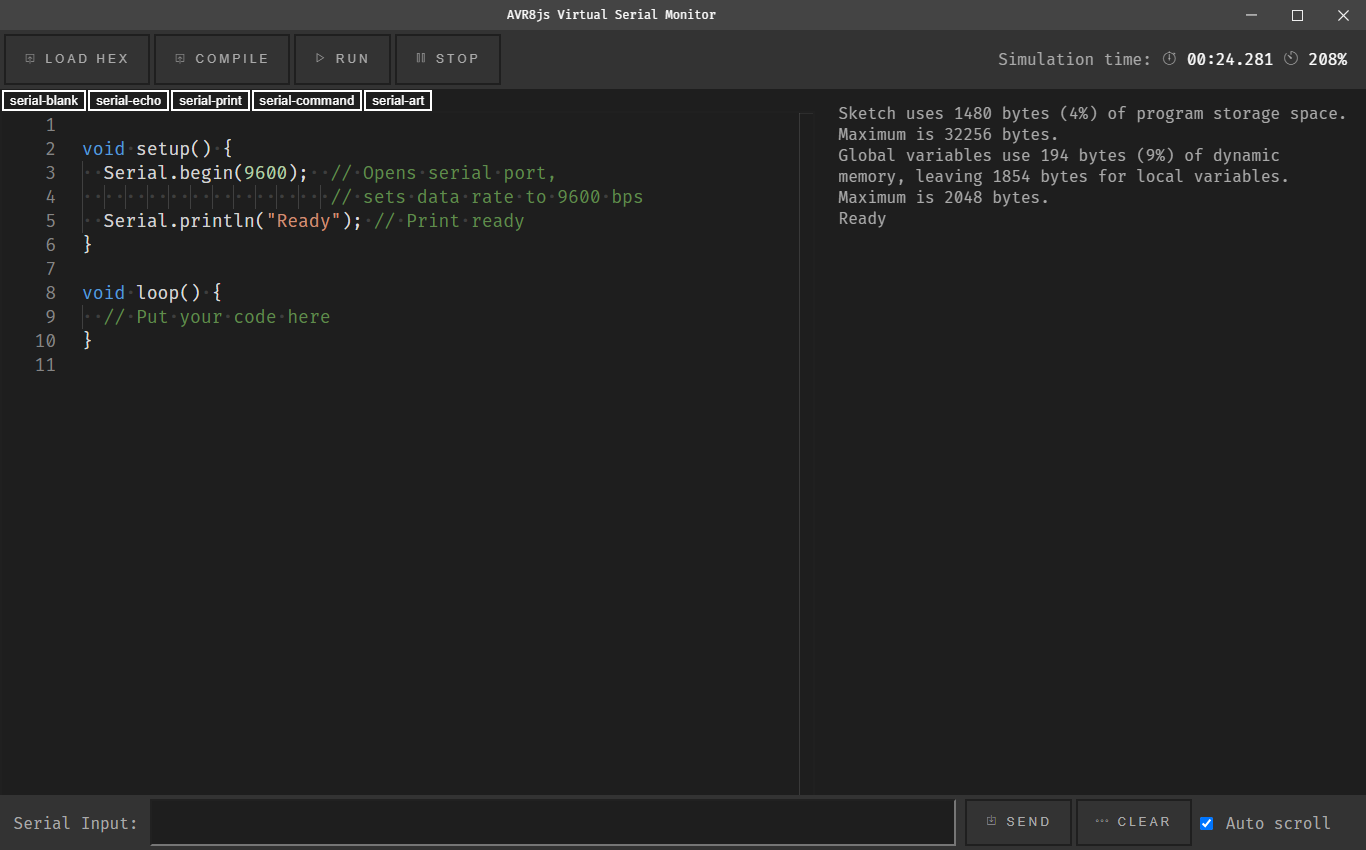
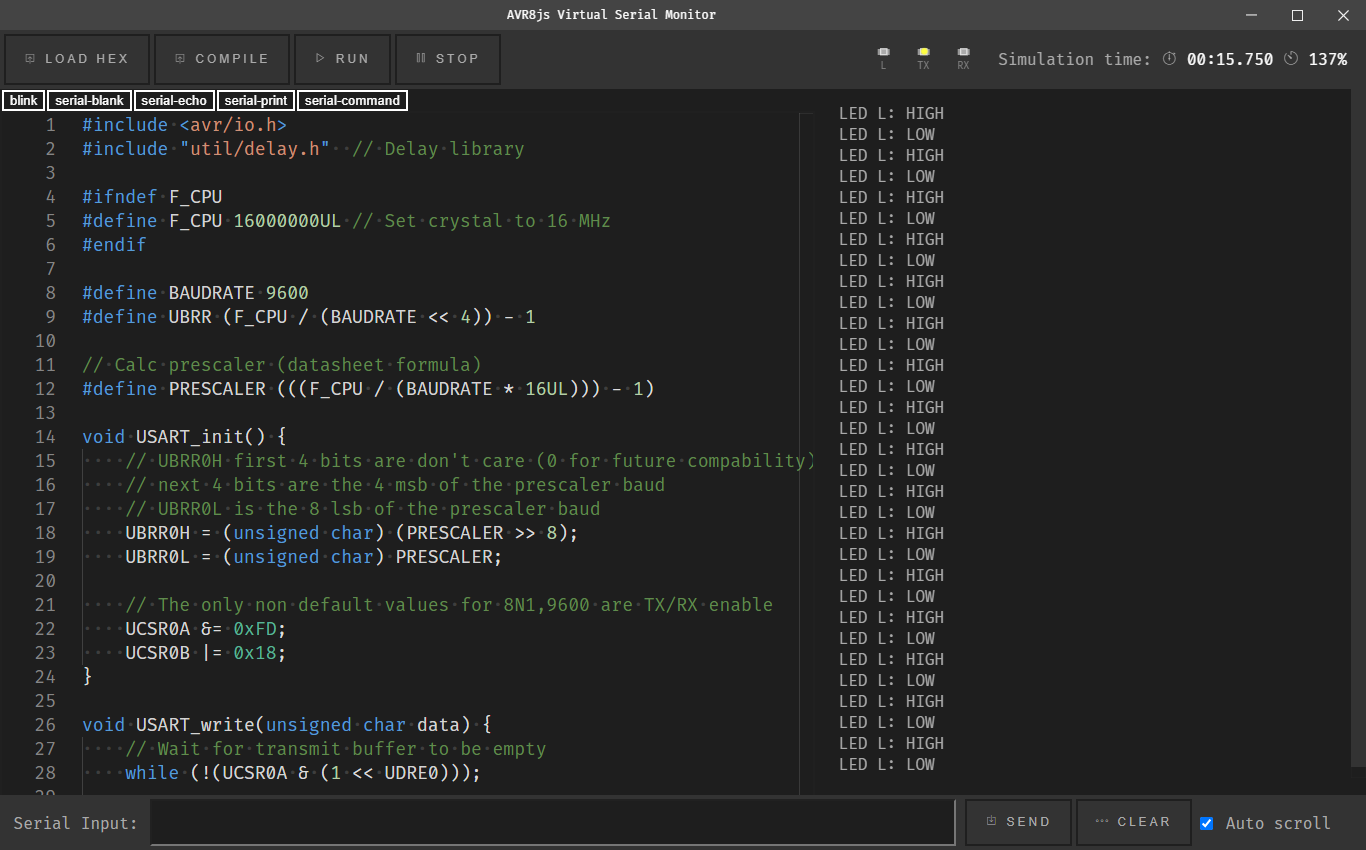
Some updates

diff --git a/index.html b/index.html
@@ -11,12 +11,37 @@
   <body>
     <div id="container" class="container">
       <div class="parent">
-        <div class="toolbar">
+        <div class="toolbar noselect">
           <button id="loadhex-button" class="btn btn-dark big"><i class="icon ci-upload"></i> Load HEX</button>
           <button id="compile-button" class="btn btn-dark"><i class="icon ci-upload"></i> Compile</button>
           <button id="run-button" class="btn btn-dark"><i class="icon ci-play-outline"></i> Run</button>
           <button id="stop-button" class="btn btn-dark" disabled><i class="icon ci-pause-outline"></i> Stop</button>
           <div class="spacer"></div>
+
+          <div class="led-container">
+            <svg
+              width="50"
+              height="25"
+              version="1.2"
+              viewBox="0 0 50 25"
+              xmlns="http://www.w3.org/2000/svg"
+            >
+              <defs>
+                <g id="led-body" fill="#aaa">
+                  <rect x="-3" y="0" height="6" width="12" fill="#999" />
+                  <rect x="0" y="-0.2" width="6.2" height="6" stroke="#eee" stroke-width="1.05" />
+                </g>
+                <filter id="ledFilter" x="-0.8" y="-0.8" height="5.2" width="9.8">
+                  <feGaussianBlur stdDeviation=".5" />
+                </filter>
+              </defs>
+              <g transform="translate(17.7 5)">
+                <use xlink:href="#led-body" />
+                <circle id="l-led" cx="3.6" cy="2.3" r="3.3" fill="#ff8080" filter="url(#ledFilter)" style="visibility:hidden" />
+              </g>
+            </svg>
+            <span class="led-label">L</span>
+          </div>
 
           <div class="led-container">
             <svg
@@ -85,7 +110,7 @@
             <pre id="runner-output-text"></pre>
           </div>
         </div>
-          <div class="toolbar bottom">
+          <div class="toolbar bottom noselect">
             <div class="spacer"></div>
             <span class="serial-label">&nbsp;Serial Input:</span>
             <input id="file-input" type="file" name="name" class="hide" />

diff --git a/src/app/app.ts b/src/app/app.ts
@@ -53,6 +53,7 @@ serialSend.addEventListener("click", serialTransmit);
 const serialScroll = document.querySelector<HTMLInputElement>('#serial-scroll');
 serialScroll.addEventListener("click", serialAutoScroll);
 
+const lLED = document.getElementById('l-led');
 const txLED = document.getElementById('tx-led');
 
 // Set up toolbar
@@ -76,6 +77,7 @@ function executeProgram(hex: string) {
   // Hook to PORTB register
   runner.portB.addListener((value) => {
     // Port B starts at pin 8 to 13
+    lLED.style.visibility = value & 1 << 5 ? "visible" : "hidden";
   });
 
   // Hook to PORTC register

diff --git a/src/shared/execute.ts b/src/shared/execute.ts
@@ -32,7 +32,7 @@ import { EEPROMLocalStorageBackend } from './eeprom';
 // ATmega328p params
 const FLASH = 0x8000;
 
-const rxLED = document.getElementById('tx-led');
+const rxLED = document.getElementById('rx-led');
 
 export class AVRRunner {
   readonly program = new Uint16Array(FLASH);

diff --git a/src/app/preload.ts b/src/app/preload.ts
@@ -35,7 +35,7 @@ document.addEventListener('DOMContentLoaded', (event) => {
   }
 
   // Load initial
-  loader('./examples/serial-print/', 'serial-print', '', 'uno');
+  loader('./examples/blink/', 'blink', '', 'uno');
 });
 
 // Change titlebar color
